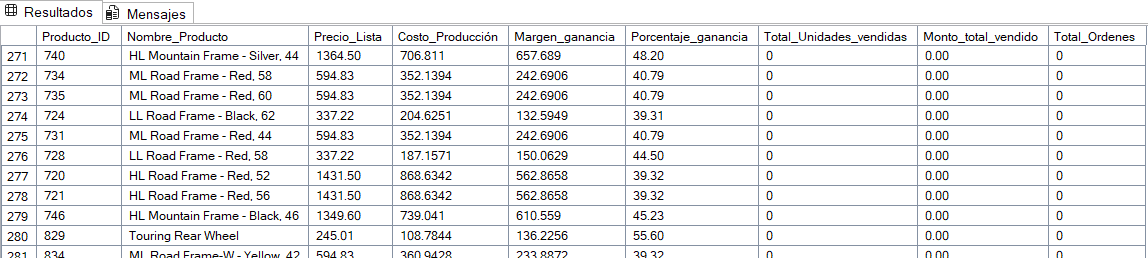
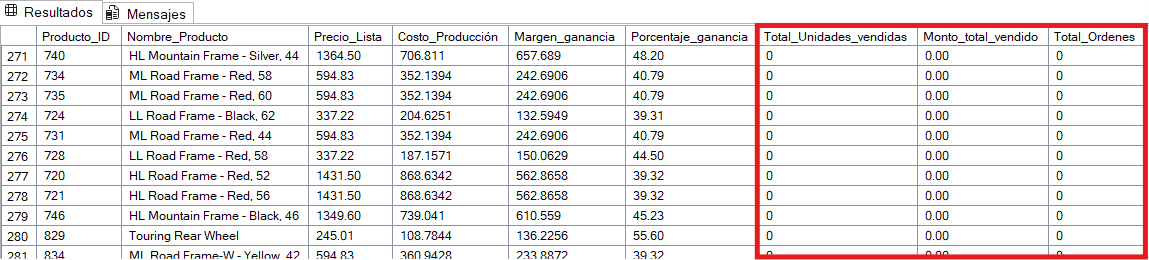
Post Analisis de datos

Changed region(s): [[0.0, 0.062, 1.0, 1.0], [0.0305, 0.031, 0.1524, 0.093]]

diff --git a/_posts/2026-04-15-Analisis.md b/_posts/2026-04-15-Analisis.md
@@ -50,7 +50,7 @@ Antes de proceder con la visualización, realicé una fase de validación para a
 
 <div style="text-align: center;">
   <img src="/assets/images/result-grid-null.png" alt="Código SQL" style="border-radius: 8px; box-shadow: 0 4px 8px rgba(0,0,0,0.2);">
-  <p><i>Captura de pantalla de la consulta SQL ejecutada.</i></p>
+  <p><i>Captura de pantalla del tratamiento de nulos.</i></p>
 </div>
 
 ### 💡 Conclusiones e Insights de Negocio
